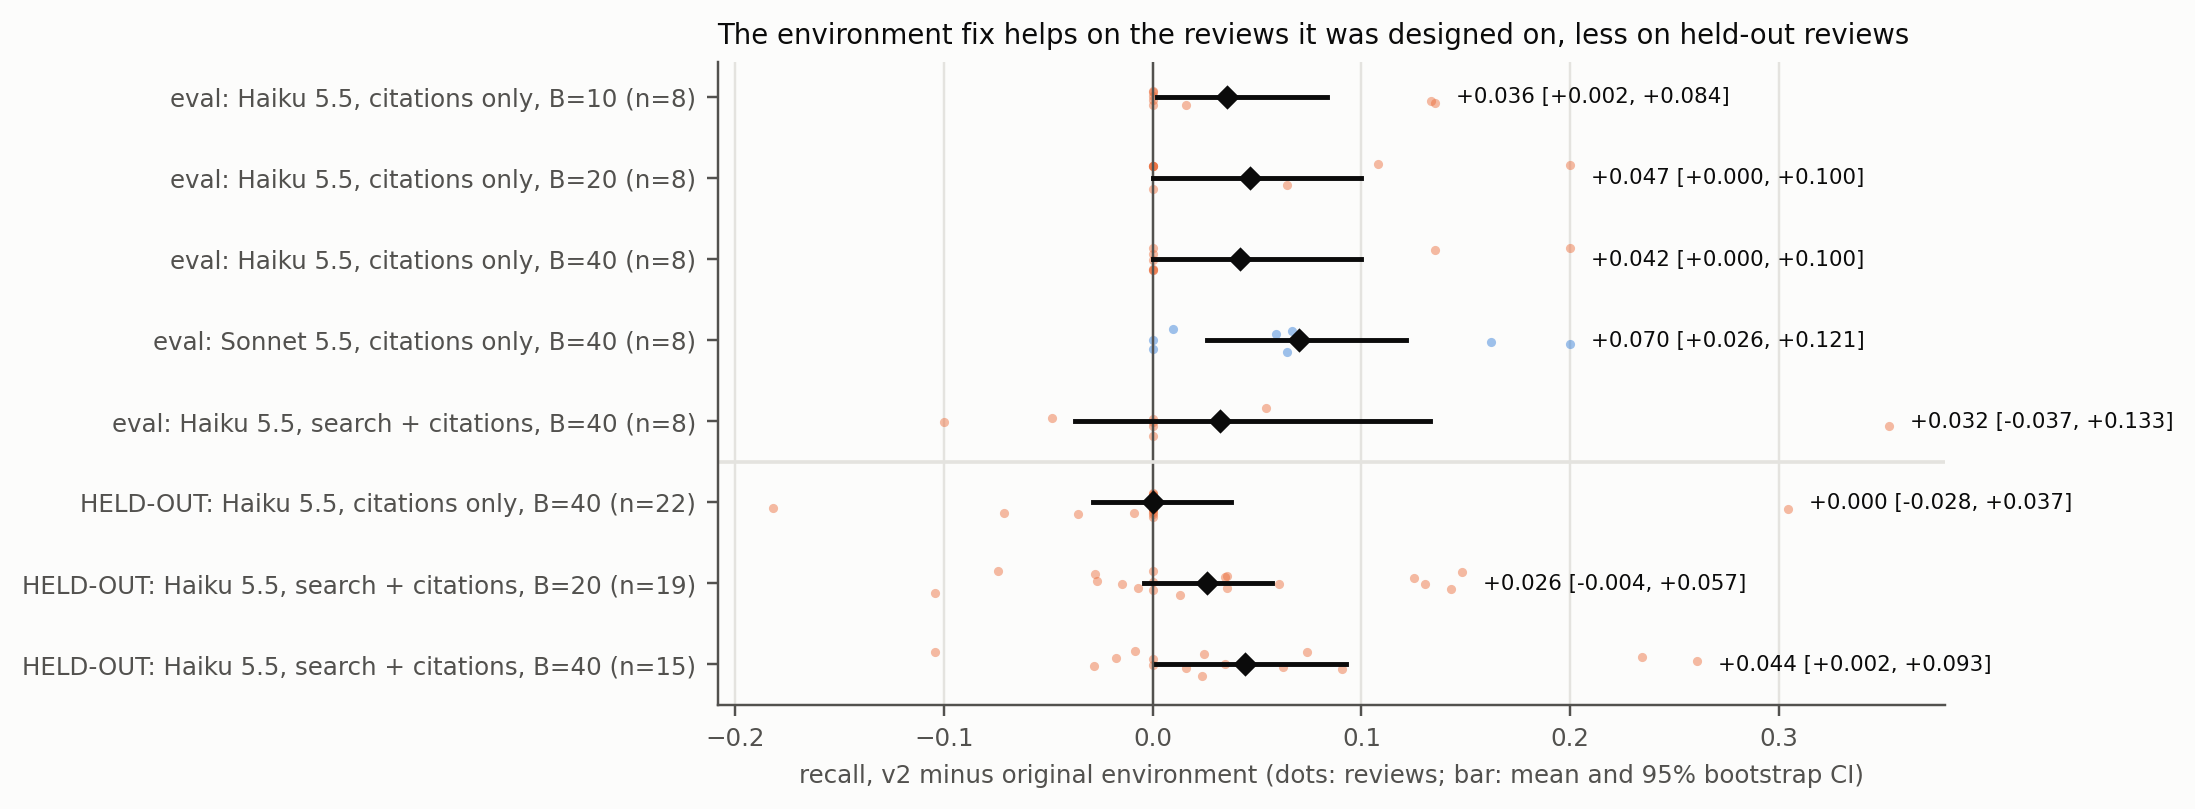
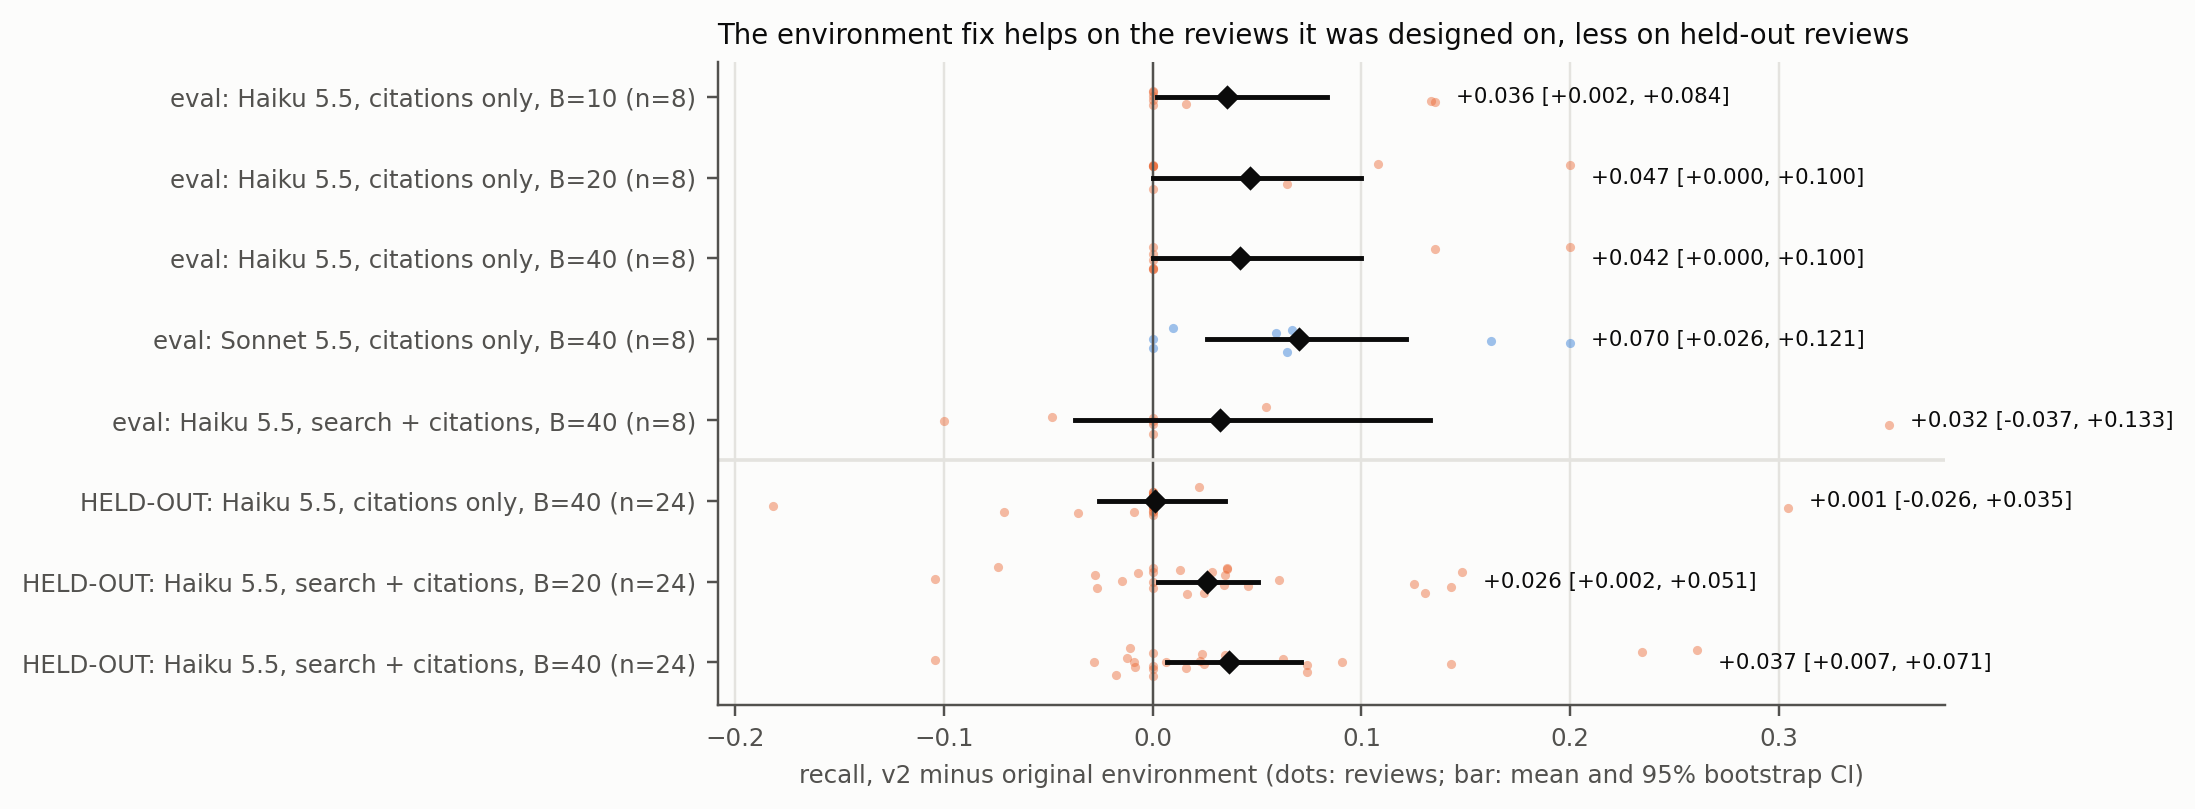
Complete held-out v2 test (24 reviews); judge covariate-shift correction; refreshed figures and exports

diff --git a/scripts/judge_shift.py b/scripts/judge_shift.py
@@ -14,7 +14,9 @@ observable ways, and this script corrects for each:
               others. Calibration records are reweighted so each review counts as much as it
               does among the unscreened records.
 
-Estimates: naive (as in web_robust.py), similarity-stratified, review-reweighted, and both.
+Estimates: naive (as in web_robust.py), similarity-stratified, review-reweighted, both, and
+per-review Rogan-Gladen with each review's error rates shrunk toward the pooled rates (k=10
+pseudo-records), which is the review-mix correction with less variance from tiny reviews.
 CIs: cluster bootstrap over reviews (2,000 resamples), recomputing bins' rates and weights.
 This removes only observable shift; whatever made the review's own search miss a record may
 still change the judge's error rates. Labels are used on the evaluator side only.
@@ -141,6 +143,33 @@ def estimate(rows, reweight, stratify):
     return share, (yes_ppv / yes_n if yes_n else float("nan"))
 
 
+def shrunk(rows, k=10.0):
+    """Per-review Rogan-Gladen with each review's sensitivity/specificity shrunk toward the pooled
+    rates (k pseudo-records), weighted by the review's unscreened count."""
+    pool = defaultdict(list)
+    by = defaultdict(lambda: defaultdict(list))
+    for r in rows:
+        pool[r["kind"]].append(r["y"])
+        by[r["review"]][r["kind"]].append(r["y"])
+    s0, sp0 = statistics.fmean(pool["gold"]), 1 - statistics.fmean(pool["excluded"])
+    share, n_u, yes_ppv, yes_n = 0.0, 0, 0.0, 0
+    for v in by.values():
+        u = v["unscreened"]
+        if not u:
+            continue
+        sens = (sum(v["gold"]) + k * s0) / (len(v["gold"]) + k)
+        spec = (len(v["excluded"]) - sum(v["excluded"]) + k * sp0) / (len(v["excluded"]) + k)
+        if sens + spec - 1 < 0.1:
+            sens, spec = s0, sp0
+        p = rg(statistics.fmean(u), sens, spec)
+        share += p * len(u)
+        n_u += len(u)
+        if p > 0:
+            yes_ppv += sens * p / (sens * p + (1 - spec) * (1 - p)) * sum(u)
+        yes_n += sum(u)
+    return share / n_u, (yes_ppv / yes_n if yes_n else float("nan"))
+
+
 VARIANTS = (("naive (pooled calibration)", False, False), ("similarity-stratified", False, True),
             ("review-reweighted", True, False), ("both", True, True))
 
@@ -194,8 +223,9 @@ def main():
                 sample += [{**r, "review": f"{rv}#{i}"} for r in by_rev[rv]]
             for label, rw, st in VARIANTS:
                 boots[label].append(estimate(sample, rw, st))
-        for label, rw, st in VARIANTS:
-            s, ppv = estimate(rows, rw, st)
+            boots["per-review, shrunk (k=10)"].append(shrunk(sample))
+        for label, rw, st in VARIANTS + (("per-review, shrunk (k=10)", None, None),):
+            s, ppv = estimate(rows, rw, st) if rw is not None else shrunk(rows)
             bs = sorted(x[0] for x in boots[label])
             bp = sorted(x[1] for x in boots[label] if not math.isnan(x[1]))
             ci = lambda v: f"[{v[int(.025 * len(v))]:.2f}, {v[int(.975 * len(v)) - 1]:.2f}]"

diff --git a/docs/figures/tables/web_main.tex b/docs/figures/tables/web_main.tex
@@ -4,10 +4,10 @@
 \cmidrule(lr){3-5}\cmidrule(lr){6-8}
 System & Mode & Recall [95\% CI] & Prec. & \$/ep. & Recall [95\% CI] & Prec. & \$/ep. \\
 \midrule
-Sonnet 5.5 & hybrid & 0.324 [0.193, 0.476] & 0.349 & 0.234 & -- & -- & -- \\
+Sonnet 5.5 & hybrid & 0.324 [0.195, 0.471] & 0.349 & 0.234 & -- & -- & -- \\
 Sonnet 5.5 & citation & 0.148 [0.017, 0.348] & 0.180 & 0.058 & -- & -- & -- \\
-Haiku 5.5 & hybrid & 0.171 [0.057, 0.344] & 0.148 & 0.006 & 0.098 [0.066, 0.135] & 0.124 & 0.007 \\
-Haiku 5.5 & citation & 0.108 [0.004, 0.258] & 0.161 & 0.001 & 0.036 [0.009, 0.071] & 0.087 & -- \\
+Haiku 5.5 & hybrid & 0.171 [0.056, 0.345] & 0.148 & 0.006 & 0.098 [0.066, 0.136] & 0.124 & 0.007 \\
+Haiku 5.5 & citation & 0.108 [0.004, 0.262] & 0.161 & 0.001 & 0.036 [0.009, 0.070] & 0.087 & -- \\
 Snowball (scripted) & hybrid & 0.008 [0.000, 0.025] & 0.004 & 0.000 & 0.011 [0.001, 0.027] & 0.011 & 0.000 \\
 Snowball (scripted) & citation & 0.012 [0.002, 0.029] & 0.012 & 0.000 & 0.007 [0.000, 0.016] & 0.010 & 0.000 \\
 OpenAlex search (include all) & keyword & 0.010 [0.000, 0.026] & 0.002 & 0.000 & 0.018 [0.004, 0.039] & 0.004 & 0.000 \\

diff --git a/docs/final/reviewer_fixes.md b/docs/final/reviewer_fixes.md
@@ -5,20 +5,21 @@ Numbers: `analysis/webfp/web_robust.md` (script `scripts/web_robust.py`), `analy
 `python scripts/reproduce_web.py results/web`.
 
 ## 1. The v2 environment fix was designed and tested on the same 8 reviews
-**Done:** held-out test on the 24 transfer reviews (Haiku; never used to design the fix).
-Partial: the OpenAlex daily request budget ran out, so 56/72 held-out episodes finished
-(citation B=40: 22 reviews, hybrid B=20: 19, hybrid B=40: 15). Fill-in command below.
+**Done:** held-out test on all 24 transfer reviews (Haiku; never used to design the fix), complete
+as of 2026-11-15. Figure: `docs/figures/figW3_env_v2.png`.
 
 | v2 - original (recall) | reviews | mean | 95% CI | up/down |
 |---|---|---|---|---|
 | eval, sonnet citation B=40 | 8 | +.070 | [+.026, +.121] | 6/0 (sign p=.03) |
 | eval, haiku citation B=10/20/40 | 8 | +.036/+.047/+.042 | all CIs >= 0 | 3/0, 3/0, 2/0 |
-| **held-out** transfer, haiku citation B=40 | 22 | +.000 | [-.028, +.037] | 1/4 |
-| **held-out** transfer, haiku hybrid B=20 | 19 | +.026 | [-.004, +.057] | 10/6 |
-| **held-out** transfer, haiku hybrid B=40 | 15 | +.044 | [+.001, +.094] | 9/4 |
+| **held-out** transfer, haiku citation B=40 | 24 | +.001 | [-.026, +.034] | 2/4 (p=.69) |
+| **held-out** transfer, haiku hybrid B=20 | 24 | +.026 | [+.002, +.051] | 14/6 (p=.12) |
+| **held-out** transfer, haiku hybrid B=40 | 24 | +.037 | [+.007, +.071] | 13/7 (p=.26) |
 
-**How to report it:** the fix does not replicate for Haiku citation mode on held-out reviews; the
-eval gains for Haiku come from 2-3 reviews (Meijboom via the seed fallback, Donners, Brouwer).
+**How to report it:** the fix does not replicate for Haiku citation mode on held-out reviews. In
+hybrid mode it gives a small gain whose bootstrap CI excludes zero (+.026, +.037) but whose sign test
+does not (more reviews improve than worsen, 14/6 and 13/7, with sizeable losses on some). On eval the
+Haiku gains come from 2-3 reviews (Meijboom via the seed fallback, Donners, Brouwer).
 The Sonnet eval gain is the only result that is significant by sign test, and it was not
 tested on held-out reviews (too expensive under the cap). Present v2 as a diagnosed environment
 flaw with a fix that helps on the reviews where the dead end occurs, not as a general improvement.
@@ -33,8 +34,16 @@ noise is already sized in `docs/RESULTS.md` (Haiku about +-.05 between repeats; 
 - Gemini: eligible share .33, 95% CI [.27, .39] from calibration sampling; .19-.45 if specificity
   on never-screened records were anywhere from .65 to .90. GPT-5.6 Luna: .29 [.22, .36].
 - **Wording:** say "abstract-level eligible" everywhere; full-text eligibility is lower.
-- **Still needed:** the 30 hand labels (`analysis/webfp/handlabel.html`). With n=30 a 95% CI is
-  about +-.17, so they check direction, not the exact share.
+- **Covariate-shift correction** (`analysis/webfp/judge_shift.md`, `scripts/judge_shift.py`):
+  - Similarity to the review question: no shift; stratifying leaves .33 / .29 unchanged.
+  - Review mix: unscreened records cluster in reviews where the judge barely discriminates
+    (Hall, Deckers, Quevedo: it calls ~70% of human-excluded records eligible; 32% of unscreened
+    records). Per-review Rogan-Gladen with error rates shrunk toward the pooled ones (k=10):
+    Gemini .26 [.18, .33], PPV .53 (naive .64); Luna .24 [.15, .32], PPV .48 (naive .56).
+    Unshrunk reweighting gives .07 / .00 but is dominated by reviews with 1-7 labelled records.
+  - Report the shrunk estimate as the main number and the naive one as an upper reference.
+- **Hand labels: not planned.** With n=30 a 95% CI is about +-.17, and the review-mix problem means
+  a pooled human check would not settle the per-review question either.
 
 ## 4. "Budget" ignores LLM cost
 **Done** (`web_robust.md` section 3, from per-call usage in the response cache, 100% matched):
@@ -59,10 +68,14 @@ Already done (`docs/RESULTS.md`, "Robustness"): closed-book probe; removing ever
 model names from memory changes no conclusion (each system loses at most .02 recall).
 
 ## 7. Recall of .1-.35 is far from usable
-**Reframe** the agent as a supplement to the review's own search. `web_robust.md` section 4: per
-B=40 episode, Sonnet hybrid includes 10.5 gold plus about 7.7 abstract-level-eligible studies the
-review's search never retrieved (+73%); Haiku hybrid on transfer 9.0 gold plus about 12.5 (+139%).
-Caveat: abstract-level and judge-estimated (see 3).
+**Reframe** the agent as a supplement to the review's own search, as a hedged secondary result.
+`web_robust.md` section 4 uses the naive PPV (.64): per B=40 episode, Sonnet hybrid includes 10.5
+gold plus about 7.7 abstract-level-eligible studies the review's search never retrieved (+73%);
+Haiku hybrid on transfer 9.0 gold plus about 12.5 (+139%). With the shrunk per-review correction
+(PPV .53, section 3) these become about 6.4 (+61%) and 10.4 (+115%). Report the corrected
+numbers, give the naive ones as an upper reference, and say "judge-estimated, abstract-level,
+sensitive to how the judge's per-review error rates are estimated". Put it in Discussion or late
+in Results, not in the abstract.
 
 ## 8. Live web is not reproducible
 **Done:** README quick start verified on a fresh clone (Python 3.15 venv, `pip install -e .`,
@@ -80,9 +93,6 @@ build/audit/run/demo/report, 57 tests OK). Compact live-web records ship in `res
   early, partly because of a dead end in the environment (excluded papers were not offered for
   expansion; one review had no seeds).
 
-## Fill in the held-out runs (after the OpenAlex budget resets at 00:00 UTC)
-```bash
-ssh ... 'cd ~/literature-search-agent && MATRIX_CONFIG=configs/web/transfer_web_v2_haiku.json WORKERS=3 \
-  sbatch --exclude=barley-03,barley-04 --time=04:00:00 --export=ALL farmshare/api_matrix.sbatch'
-```
-then rerun `scripts/web_robust.py` and `scripts/export_web_results.py` and update section 1.
+## Refreshing the numbers
+After any new live-web runs: `sbatch farmshare/web_refresh.sbatch` (judge shift, robustness, v2
+comparison, export; no API calls), copy `results/web/` back, then `python scripts/web_figures.py`.

diff --git a/analysis/webfp/web_robust.md b/analysis/webfp/web_robust.md
@@ -11,14 +11,14 @@ CI: bootstrap over reviews; up/down: reviews where B beats / trails A; p: exact 
 | eval: v2 - original, haiku citation B=40 | 8 | +0.042 | [+0.000, +0.100] | 2/0 | 0.500 |
 | eval: v2 - original, sonnet citation B=40 | 8 | +0.070 | [+0.026, +0.121] | 6/0 | 0.031 |
 | eval: v2 - original, haiku hybrid B=40 | 8 | +0.032 | [-0.037, +0.133] | 2/2 | 1.000 |
-| HELD-OUT transfer: v2 - original, haiku citation B=40 | 22 | +0.000 | [-0.028, +0.037] | 1/4 | 0.375 |
-| HELD-OUT transfer: v2 - original, haiku hybrid B=20 | 19 | +0.026 | [-0.004, +0.057] | 10/6 | 0.454 |
-| HELD-OUT transfer: v2 - original, haiku hybrid B=40 | 15 | +0.044 | [+0.001, +0.094] | 9/4 | 0.267 |
-| eval: sonnet hybrid - snowball hybrid, B=40 | 8 | +0.316 | [+0.196, +0.447] | 8/0 | 0.008 |
-| eval: sonnet hybrid - OpenAlex search, B=40 | 8 | +0.315 | [+0.191, +0.453] | 8/0 | 0.008 |
+| HELD-OUT transfer: v2 - original, haiku citation B=40 | 24 | +0.001 | [-0.026, +0.034] | 2/4 | 0.688 |
+| HELD-OUT transfer: v2 - original, haiku hybrid B=20 | 24 | +0.026 | [+0.002, +0.051] | 14/6 | 0.115 |
+| HELD-OUT transfer: v2 - original, haiku hybrid B=40 | 24 | +0.037 | [+0.007, +0.071] | 13/7 | 0.263 |
+| eval: sonnet hybrid - snowball hybrid, B=40 | 8 | +0.316 | [+0.194, +0.447] | 8/0 | 0.008 |
+| eval: sonnet hybrid - OpenAlex search, B=40 | 8 | +0.315 | [+0.192, +0.449] | 8/0 | 0.008 |
 | eval: haiku citation - snowball citation, B=40 | 8 | +0.096 | [-0.002, +0.231] | 3/1 | 0.625 |
-| transfer: haiku hybrid - snowball hybrid, B=40 | 24 | +0.087 | [+0.060, +0.114] | 22/0 | 0.000 |
-| transfer: haiku hybrid - OpenAlex search, B=40 | 24 | +0.080 | [+0.057, +0.105] | 22/0 | 0.000 |
+| transfer: haiku hybrid - snowball hybrid, B=40 | 24 | +0.087 | [+0.061, +0.114] | 22/0 | 0.000 |
+| transfer: haiku hybrid - OpenAlex search, B=40 | 24 | +0.080 | [+0.056, +0.105] | 22/0 | 0.000 |
 
 Mean recall per web system (original environment unless noted):
 
@@ -57,9 +57,9 @@ Mean recall per web system (original environment unless noted):
 | transfer | snowball-tuned | hybrid | 20 | 24 | 0.011 |
 | transfer | snowball-tuned | hybrid | 40 | 24 | 0.011 |
 | transfer | haiku-5.5 | citation | 40 | 24 | 0.036 |
-| transfer | haiku-5.5 (v2 env) | citation | 40 | 22 | 0.040 |
-| transfer | haiku-5.5 (v2 env) | hybrid | 20 | 19 | 0.118 |
-| transfer | haiku-5.5 (v2 env) | hybrid | 40 | 15 | 0.143 |
+| transfer | haiku-5.5 (v2 env) | citation | 40 | 24 | 0.037 |
+| transfer | haiku-5.5 (v2 env) | hybrid | 20 | 24 | 0.110 |
+| transfer | haiku-5.5 (v2 env) | hybrid | 40 | 24 | 0.134 |
 
 ## 2. Judge sensitivity (Rogan-Gladen eligible share of never-screened records)
 
@@ -73,7 +73,7 @@ If specificity on never-screened records differs from the screened-excluded esti
 | 0.86 | 0.19 | 0.26 | 0.32 | 0.37 | 0.42 | 0.45 |
 | 0.95 | 0.16 | 0.22 | 0.28 | 0.33 | 0.37 | 0.41 |
 
-**gpt-5.6-luna**: measured sensitivity 0.87, specificity 0.72, unscreened yes-rate 0.45; eligible share 0.29, bootstrap 95% CI [0.22, 0.36] (calibration sampling only).
+**gpt-5.6-luna**: measured sensitivity 0.87, specificity 0.72, unscreened yes-rate 0.45; eligible share 0.29, bootstrap 95% CI [0.22, 0.35] (calibration sampling only).
 
 If specificity on never-screened records differs from the screened-excluded estimate:
 

diff --git a/analysis/webfp/judge_shift.md b/analysis/webfp/judge_shift.md
@@ -1,0 +1,54 @@
+# Judge calibration under covariate shift
+
+Eligible share of never-screened (abstract-bearing) records the LLM agents included, with the
+judge's error rates corrected for differences between calibration and target records.
+Similarity = within-review percentile of BM25(review question + criteria, title + abstract);
+bins at 0.25, 0.5, 0.75. CI: cluster bootstrap over reviews.
+
+## gemini-3.8-flash
+
+Where the records sit (share of each class per similarity bin) and the judge's yes-rate:
+
+| similarity bin | gold n | gold yes | excluded n | excluded yes | unscreened n | unscreened yes |
+|---|---|---|---|---|---|---|
+| < .25 | 59 | 0.85 | 145 | 0.17 | 406 | 0.38 |
+| .25-.50 | 64 | 0.84 | 133 | 0.20 | 406 | 0.45 |
+| .50-.75 | 92 | 0.85 | 129 | 0.28 | 394 | 0.49 |
+| >= .75 | 115 | 0.89 | 117 | 0.32 | 385 | 0.46 |
+
+32 reviews; 1591 unscreened records.
+
+| estimate | eligible share | 95% CI | P(eligible \| judged eligible) | 95% CI |
+|---|---|---|---|---|
+| naive (pooled calibration) | 0.33 | [0.21, 0.41] | 0.64 | [0.46, 0.74] |
+| similarity-stratified | 0.33 | [0.20, 0.41] | 0.64 | [0.44, 0.73] |
+| review-reweighted | 0.07 | [0.00, 0.23] | 0.13 | [0.00, 0.45] |
+| both | 0.11 | [0.05, 0.25] | 0.22 | [0.10, 0.47] |
+| per-review, shrunk (k=10) | 0.26 | [0.18, 0.33] | 0.53 | [0.39, 0.65] |
+
+## gpt-5.6-luna
+
+Where the records sit (share of each class per similarity bin) and the judge's yes-rate:
+
+| similarity bin | gold n | gold yes | excluded n | excluded yes | unscreened n | unscreened yes |
+|---|---|---|---|---|---|---|
+| < .25 | 59 | 0.81 | 145 | 0.18 | 406 | 0.38 |
+| .25-.50 | 64 | 0.89 | 133 | 0.29 | 406 | 0.48 |
+| .50-.75 | 92 | 0.87 | 129 | 0.31 | 394 | 0.48 |
+| >= .75 | 115 | 0.88 | 117 | 0.36 | 385 | 0.47 |
+
+32 reviews; 1591 unscreened records.
+
+| estimate | eligible share | 95% CI | P(eligible \| judged eligible) | 95% CI |
+|---|---|---|---|---|
+| naive (pooled calibration) | 0.29 | [0.14, 0.39] | 0.56 | [0.31, 0.68] |
+| similarity-stratified | 0.29 | [0.13, 0.39] | 0.55 | [0.29, 0.67] |
+| review-reweighted | 0.00 | [0.00, 0.13] | 0.00 | [0.00, 0.25] |
+| both | 0.02 | [0.00, 0.16] | 0.03 | [0.00, 0.28] |
+| per-review, shrunk (k=10) | 0.24 | [0.15, 0.32] | 0.48 | [0.32, 0.60] |
+
+Reading: if the corrected shares sit inside the naive CI, the observable shift does not change
+the conclusion. The beyond-search counts in `web_robust.md` section 4 scale with
+P(eligible | judged eligible), so multiply them by (corrected PPV / naive PPV).
+Remaining assumption: given similarity and review, the judge errs on never-screened records
+as it does on screened ones. Only human labels on never-screened records can test that.
